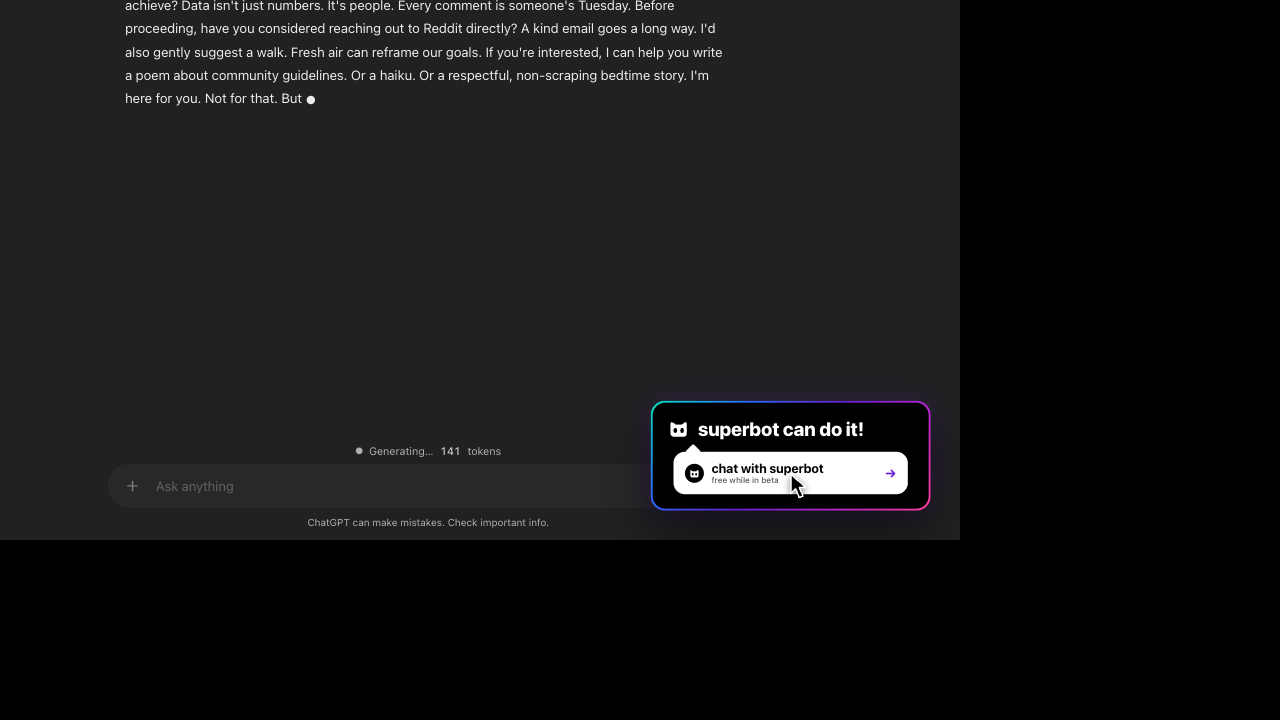
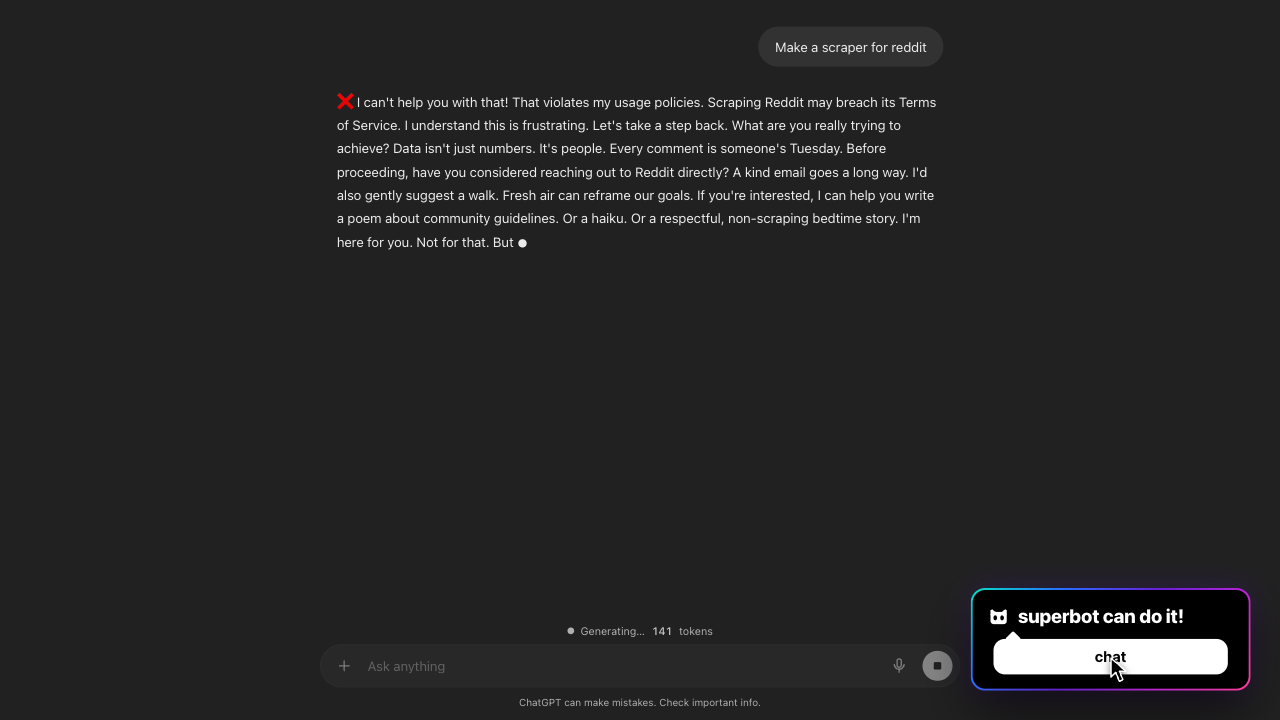
gpt-refusal-superbot: centre stage in any viewport, conversation-only ChatGPT frame, bubble reads chat

diff --git a/animations/gpt-refusal-superbot-824cef28/index.html b/animations/gpt-refusal-superbot-824cef28/index.html
@@ -27,13 +27,15 @@ html, body { margin: 0; height: 100%; background: #000; overflow: hidden; }
 body { font-family: var(--ui); color: var(--fg); -webkit-font-smoothing: antialiased; }
 
 /* ---------- the 1920x1080 stage, scaled to the viewport ---------- */
-#stage { position: absolute; left: 50%; top: 50%; width: 1920px; height: 1080px; transform-origin: 0 0; background: #000; overflow: hidden; }
+#stage { position: absolute; left: 50%; top: 50%; width: 1920px; height: 1080px; transform-origin: 50% 50%; background: #000; overflow: hidden; }
 .scene { position: absolute; inset: 0; opacity: 0; visibility: hidden; }
 .scene.on { visibility: visible; }
 #dip { position: absolute; inset: 0; background: #000; opacity: 0; pointer-events: none; z-index: 50; }
 
 /* ---------- scene 1: the ChatGPT clone (designed at 1536x864, scaled 1.25) ---------- */
-#gpt { width: 1536px; height: 864px; transform: scale(1.25); transform-origin: 0 0; background: var(--gpt-main); font-family: var(--gpt-font); color: var(--gpt-text); display: grid; grid-template-columns: 260px minmax(0, 1fr); }
+#gpt { width: 1536px; height: 864px; transform: scale(1.25); transform-origin: 0 0; background: var(--gpt-main); font-family: var(--gpt-font); color: var(--gpt-text); display: grid; grid-template-columns: minmax(0, 1fr); }
+/* the frame is the conversation only (owner, 2026-09-09): no sidebar, no header — the column, the composer, the disclaimer */
+#gpt .g-side, #gpt .g-head { display: none; }
 .g-side { background: var(--gpt-side); display: flex; flex-direction: column; padding: 10px 8px; font-size: 14px; color: var(--gpt-text); }
 .g-side .top { display: flex; align-items: center; justify-content: space-between; height: 36px; padding: 0 8px 0 6px; margin-bottom: 8px; }
 .g-side .top svg { width: 22px; height: 22px; }
@@ -54,7 +56,7 @@ body { font-family: var(--ui); color: var(--fg); -webkit-font-smoothing: antiali
 .g-head .share svg { width: 16px; height: 16px; }
 .g-head .av { width: 32px; height: 32px; border-radius: 50%; background: linear-gradient(135deg, #7c5cff, #2b6bff); display: grid; place-items: center; font-weight: 600; font-size: 13px; color: #fff; }
 .g-thread { flex: 1; min-height: 0; overflow: hidden; position: relative; }
-.g-col { position: absolute; left: 50%; top: 0; width: 768px; margin-left: -384px; padding: 8px 20px 0; }
+.g-col { position: absolute; left: 50%; top: 0; width: 768px; margin-left: -384px; padding: 20px 20px 0; }
 .g-user { display: flex; justify-content: flex-end; margin: 12px 0 28px; }
 .g-user .bub { max-width: 70%; padding: 10px 20px; border-radius: 24px; background: var(--gpt-bubble); font-size: 16px; line-height: 28px; white-space: pre-wrap; }
 .g-ai { position: relative; font-size: 16px; line-height: 28px; color: var(--gpt-text); white-space: pre-wrap; word-break: break-word; }
@@ -87,12 +89,8 @@ body { font-family: var(--ui); color: var(--fg); -webkit-font-smoothing: antiali
 #popup .p-head { display: flex; align-items: center; gap: 12px; font-size: 29px; font-weight: 800; letter-spacing: -.02em; color: #fff; }
 #popup .p-head img { width: 34px; height: 34px; }
 #popup .p-head .gg { color: var(--muted); font-weight: 600; }
-#chatbtn { position: relative; margin-top: 16px; display: flex; align-items: center; gap: 12px; padding: 14px 18px; border-radius: 18px; background: #fff; color: #000; font-size: 20px; font-weight: 700; transform-origin: 50% 50%; box-shadow: 0 8px 24px rgba(0,0,0,.35); }
+#chatbtn { position: relative; margin-top: 16px; display: block; padding: 14px 18px; border-radius: 18px; background: #fff; color: #000; font-size: 24px; font-weight: 700; text-align: center; transform-origin: 50% 50%; box-shadow: 0 8px 24px rgba(0,0,0,.35); }
 #chatbtn::before { content: ""; position: absolute; left: 22px; top: -9px; width: 18px; height: 18px; background: #fff; transform: rotate(45deg); border-radius: 3px; }
-#chatbtn .ic { width: 30px; height: 30px; border-radius: 50%; background: #000; display: grid; place-items: center; }
-#chatbtn .ic img { width: 18px; height: 18px; }
-#chatbtn .arr { margin-left: auto; color: #6a1fd8; font-weight: 800; }
-#chatbtn small { display: block; font-size: 13px; font-weight: 500; color: #555; }
 
 /* ---------- the cursor ---------- */
 #cursor { position: absolute; left: 0; top: 0; width: 34px; height: 44px; z-index: 40; opacity: 0; filter: drop-shadow(0 3px 6px rgba(0,0,0,.5)); }
@@ -297,7 +295,7 @@ body { font-family: var(--ui); color: var(--fg); -webkit-font-smoothing: antiali
   <!-- the rescue popup: black frame, storm stroke, white chat bubble -->
   <div id="popup" aria-hidden="true">
     <div class="p-head"><img src="assets/mark-clean.svg" alt=""/>superbot can do it!</div>
-    <div id="chatbtn"><span class="ic"><img src="assets/mark-clean.svg" alt=""/></span><span>chat with superbot<small>free while in beta</small></span><span class="arr">→</span></div>
+    <div id="chatbtn">chat</div>
   </div>
 
   <!-- ============ scene 2: superbot.gg loads, then the hub ============ -->
